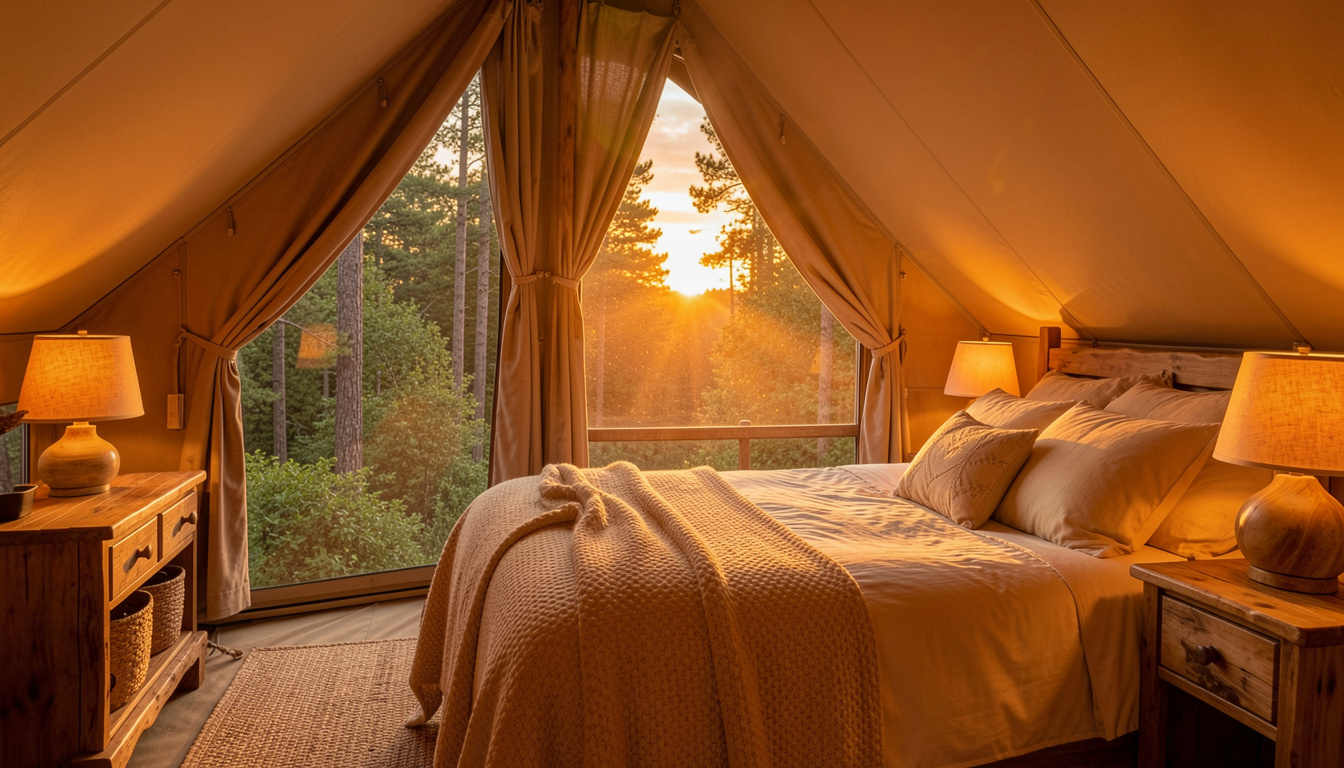
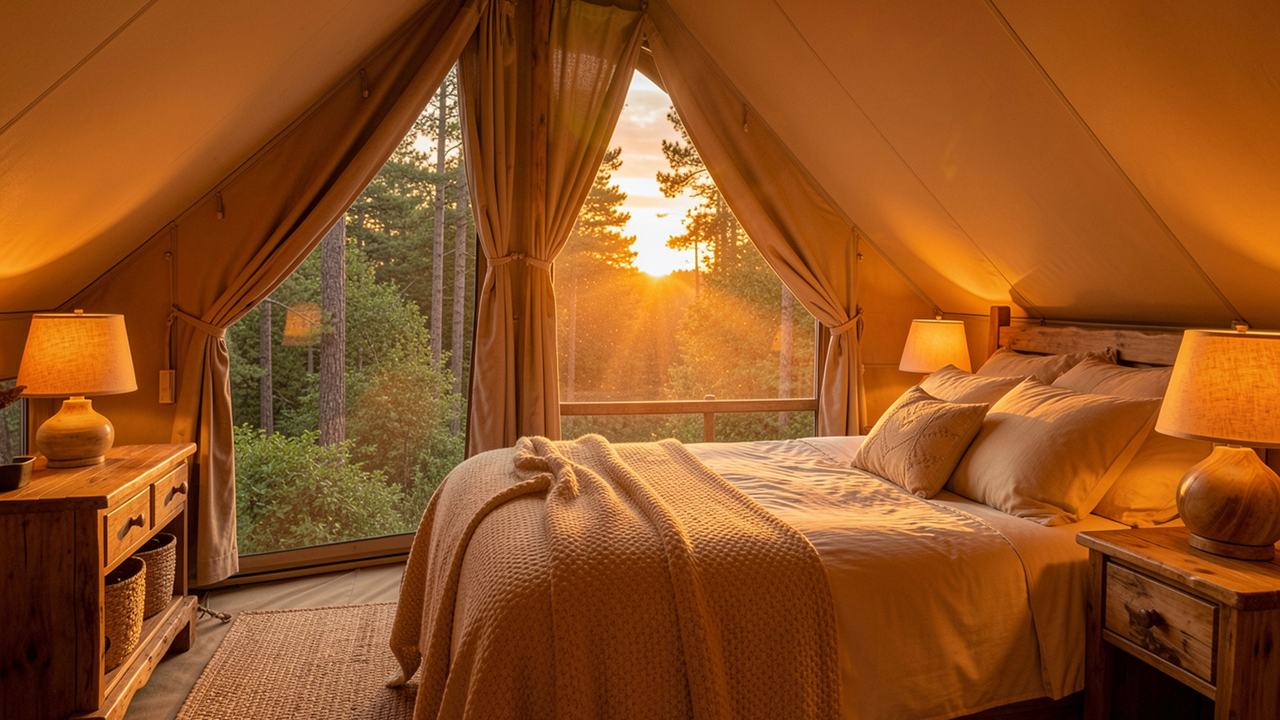
feat: added room slider

diff --git a/app/components/MainRooms.vue b/app/components/MainRooms.vue
@@ -1,0 +1,256 @@
+<template>
+  <div class="slider-wrapper">
+    <div class="slider-viewport">
+      <div class="slider-track" :style="{ transform: `translateX(-${currentSlider * 100}%)` }">
+        <div v-for="room in rooms" :key="room.id" class="room-descr">
+          <div class="room-card">
+            <div class="room-img">
+              <img :src="room.img" :alt="room.title" />
+            </div>
+
+            <div
+              class="description"
+              :class="{ 'is-expanded': isExpanded(room.id) }"
+              :style="{
+                width: isExpanded(room.id) ? '55%' : '30%',
+              }"
+            >
+              <div class="room-descr_title">
+                {{ room.title }}
+              </div>
+              <div class="room-descr_info">
+                {{ room.info }}
+              </div>
+              <template v-if="isExpanded(room.id)">
+                <div class="room-descr_menu">
+                  {{ room.description }}
+                </div>
+              </template>
+              <div class="room-buttons">
+                <div class="button" @click="toggleExpand(room.id)">Подробнее</div>
+                <template v-if="isExpanded(room.id)">
+                  <a class="button" href="#">{{ room.price }}</a>
+                </template>
+              </div>
+            </div>
+          </div>
+        </div>
+      </div>
+      <div class="slider-nav">
+        <button class="nav-btn nav-btn--prev" @click="previousSlider">‹</button>
+        <button class="nav-btn nav-btn--next" @click="nextSlider">›</button>
+      </div>
+    </div>
+  </div>
+</template>
+
+<script setup lang="ts">
+import { ref, watch } from 'vue'
+import standartImg from '~/assets/images/room_starndart.jpeg'
+import comfortImg from '~/assets/images/room_comfort.jpeg'
+import luxImg from '~/assets/images/room_lux.jpeg'
+import glempImg from '~/assets/images/room_glemp.jpeg'
+import { useSlider } from '~/composable/useSlider'
+
+const rooms = [
+  {
+    id: 1,
+    title: 'Стандартный номер',
+    info: 'Лаконичный номер для комфортного размещения и спокойного сна.',
+    description:
+      'Оснащение: кровать, шкаф, ТВ, Wi-Fi, кондиционер, душевая кабина, туалет. Без балкона.',
+    img: standartImg,
+    price: 'от 3000 р',
+  },
+  {
+    id: 2,
+    title: 'Комфорт',
+    info: 'Уютный номер с зоной отдыха и панорамными окнами, идеальный для семейного размещения.',
+    description: 'Оснащение: кровать, шкаф, ТВ, Wi-Fi, диван. Без балкона.',
+    img: comfortImg,
+    price: 'от 5000 р',
+  },
+  {
+    id: 3,
+    title: 'Люкс',
+    info: 'Эксклюзивный номер с выходом на балкон, где каждая деталь продумана для вашего превосходства.',
+    description:
+      'Оснащение: кровать, шкаф, ТВ, Wi-Fi, кондиционер, балкон, душевая кабина, ванная, туалет. ',
+    img: luxImg,
+    price: 'от 10000 р',
+  },
+  {
+    id: 4,
+    title: 'Глэмпинг',
+    info: 'Атмосферный отдых на природе с базовым комфортом.',
+    description:
+      'Оснащение: кровать, кондиционер. Удобства (душ, туалет) — вне домика, на общей зоне. ',
+    img: glempImg,
+    price: 'от 2000 р',
+  },
+]
+
+const { currentSlider, nextSlider, previousSlider } = useSlider(rooms)
+
+const expandedMap = ref<Record<number, boolean>>({})
+
+const isExpanded = (id: number) => {
+  return !!expandedMap.value[id]
+}
+
+const toggleExpand = (id: number) => {
+  expandedMap.value[id] = !expandedMap.value[id]
+}
+
+watch(currentSlider, () => {
+  expandedMap.value = {}
+})
+</script>
+
+<style lang="scss" scoped>
+.slider-wrapper {
+  position: relative;
+  width: 100%;
+}
+
+.slider-viewport {
+  overflow: hidden;
+  width: 100%;
+}
+
+.slider-track {
+  display: flex;
+  transition: transform 0.5s ease-in-out;
+  width: 100%;
+}
+
+.room-descr {
+  flex: 0 0 100%;
+  min-width: 0;
+}
+
+.room-card {
+  position: relative;
+  width: 100%;
+  height: 500px;
+  overflow: hidden;
+}
+
+.room-img {
+  width: 100%;
+  height: 100%;
+
+  img {
+    width: 100%;
+    height: 100%;
+    object-fit: cover;
+  }
+}
+
+.description {
+  position: absolute;
+  top: 0;
+  left: 0;
+  height: 100%;
+  width: 30%;
+  background-color: rgba(0, 54, 13, 0.3);
+  backdrop-filter: blur(4px);
+  display: flex;
+  flex-direction: column;
+  justify-content: center;
+  padding: 2rem;
+  gap: 1rem;
+  transition: width 0.4s ease;
+  overflow: hidden;
+  z-index: 2;
+  color: white;
+  mask-image: linear-gradient(to right, black 70%, transparent 100%);
+  -webkit-mask-image: linear-gradient(to right, black 70%, transparent 100%);
+}
+
+.room-descr_title {
+  font-size: 1.5rem;
+  color: white;
+}
+
+.room-descr_info {
+  font-size: 1rem;
+  color: white;
+}
+
+.room-descr_menu {
+  color: white;
+  animation: fadeIn 0.3s ease;
+}
+
+.room-buttons {
+  display: flex;
+  flex-direction: row;
+  align-items: center;
+  gap: 10px;
+  flex-wrap: wrap;
+}
+
+.button {
+  display: flex;
+  border-radius: 4px;
+  border: none;
+  padding: 6px 12px;
+  font-size: 16px;
+  background: #4a3f35;
+  color: #fff;
+  cursor: pointer;
+  text-decoration: none;
+  transition: background 0.2s;
+  white-space: nowrap;
+
+  &:hover {
+    background: #5f5246;
+  }
+}
+
+@keyframes fadeIn {
+  from {
+    opacity: 0;
+    transform: translateY(6px);
+  }
+  to {
+    opacity: 1;
+    transform: translateY(0);
+  }
+}
+
+.slider-nav {
+  position: absolute;
+  bottom: 20px;
+  right: 20px;
+  display: flex;
+  align-items: center;
+  gap: 8px;
+  background: rgba(0, 0, 0, 0.5);
+  padding: 8px 12px;
+  border-radius: 30px;
+  backdrop-filter: blur(4px);
+  z-index: 10;
+}
+
+.nav-btn {
+  width: 36px;
+  height: 36px;
+  border-radius: 50%;
+  border: none;
+  background: rgba(255, 255, 255, 0.9);
+  color: #333;
+  font-size: 20px;
+  cursor: pointer;
+  display: flex;
+  align-items: center;
+  justify-content: center;
+  transition: all 0.3s ease;
+
+  &:hover {
+    background: #ffffff;
+    transform: scale(1.05);
+  }
+}
+</style>

diff --git a/app/components/MainAppatments.vue b/app/components/MainAppatments.vue
@@ -11,6 +11,7 @@
       приятного пребывания. Выберите подходящий вариант по выгодной цене и забронируйте заранее,
       чтобы быть уверенными в идеальных условиях отдыха.
     </div>
+    <MainRooms />
   </div>
 </template>
 
